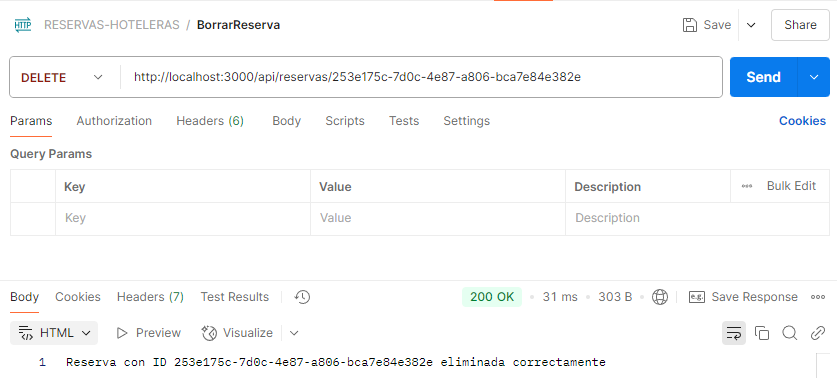
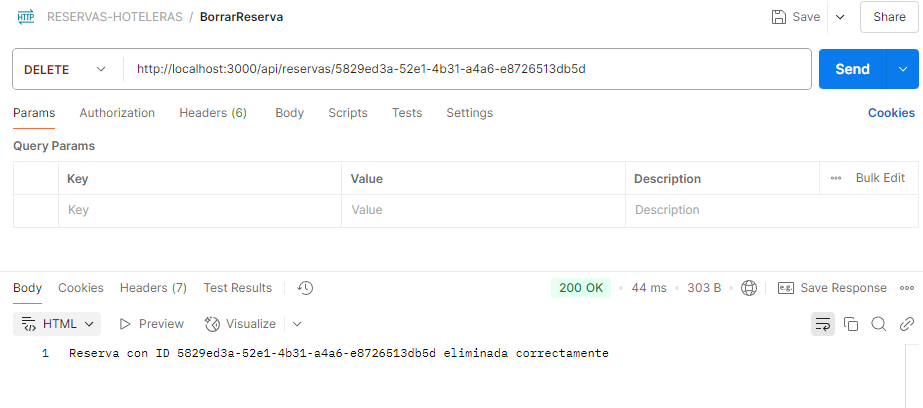
Se crea un metodo para filtrar por estado pendiente de reservas, se agrega un campo al arreglo, modifica documentacion y se actualizan los archivos del controlador

diff --git a/src/controladores/reservas.controlador.js b/src/controladores/reservas.controlador.js
@@ -16,7 +16,7 @@ const guardarReservas = (reservas) => {
   fs.writeFileSync(rutaDatos, JSON.stringify(reservas, null, 2), "utf-8");
 };
 
-// Crear múltiples reservas
+// Crear reservas
 const crearReservas = (req, res) => {
   const nuevasReservas = req.body; // Se espera un arreglo de reservas
 
@@ -30,7 +30,7 @@ const crearReservas = (req, res) => {
   // Validar cada reserva
   const reservasValidas = [];
   for (const reserva of nuevasReservas) {
-    const { hotel, fecha, tipoHabitacion, adultos, niños } = reserva;
+    const { hotel, fecha, tipoHabitacion, adultos, niños, estado_pago } = reserva;
 
     if (!hotel || !fecha || !tipoHabitacion || !adultos) {
       return res
@@ -38,7 +38,7 @@ const crearReservas = (req, res) => {
         .send("Faltan datos obligatorios en una o más reservas");
     }
 
-    // Crear la reserva con un ID único
+    // Crear la reserva con un ID único y estado de pago predeterminado
     reservasValidas.push({
       id: uuidv4(),
       hotel,
@@ -46,6 +46,7 @@ const crearReservas = (req, res) => {
       tipoHabitacion,
       adultos,
       niños: niños || 0, // Valor predeterminado si no se envía
+      estado_pago: estado_pago || "pendiente", // Valor predeterminado si no se envía
     });
   }
 
@@ -80,36 +81,37 @@ const obtenerReservaPorId = (req, res) => {
 
 // Actualizar una reserva específica por ID
 const actualizarReservaPorId = (req, res) => {
-    const reservas = obtenerReservas(); // Cargar todas las reservas desde el archivo
-    const { id } = req.params; // Obtener el ID de los parámetros de la URL
-    const { hotel, fecha, tipoHabitacion, adultos, niños } = req.body; // Datos enviados en el cuerpo de la solicitud
-  
-    // Buscar la reserva por ID
-    const indiceReserva = reservas.findIndex(reserva => reserva.id === id);
-  
-    if (indiceReserva === -1) {
-      return res.status(404).send('Reserva no encontrada'); // Si no se encuentra, devolver un error 404
-    }
-  
-    // Actualizar los datos de la reserva
-    reservas[indiceReserva] = {
-      ...reservas[indiceReserva], // Mantener los datos existentes
-      hotel: hotel || reservas[indiceReserva].hotel, // Actualizar solo si se envía un nuevo valor
-      fecha: fecha || reservas[indiceReserva].fecha,
-      tipoHabitacion: tipoHabitacion || reservas[indiceReserva].tipoHabitacion,
-      adultos: adultos || reservas[indiceReserva].adultos,
-      niños: niños || reservas[indiceReserva].niños,
-    };
-  
-    // Guardar las reservas actualizadas en el archivo
-    guardarReservas(reservas);
-  
-    res.status(200).json(reservas[indiceReserva]); // Enviar la reserva actualizada como respuesta
+  const reservas = obtenerReservas(); // Cargar todas las reservas desde el archivo
+  const { id } = req.params; // Obtener el ID de los parámetros de la URL
+  const { hotel, fecha, tipoHabitacion, adultos, niños, estado_pago } = req.body; // Datos enviados en el cuerpo de la solicitud
+
+  // Buscar la reserva por ID
+  const indiceReserva = reservas.findIndex((reserva) => reserva.id === id);
+
+  if (indiceReserva === -1) {
+    return res.status(404).send("Reserva no encontrada"); // Si no se encuentra, devolver un error 404
+  }
+
+  // Actualizar los datos de la reserva
+  reservas[indiceReserva] = {
+    ...reservas[indiceReserva], // Mantener los datos existentes
+    hotel: hotel || reservas[indiceReserva].hotel, // Actualizar solo si se envía un nuevo valor
+    fecha: fecha || reservas[indiceReserva].fecha,
+    tipoHabitacion: tipoHabitacion || reservas[indiceReserva].tipoHabitacion,
+    adultos: adultos || reservas[indiceReserva].adultos,
+    niños: niños || reservas[indiceReserva].niños,
+    estado_pago: estado_pago || reservas[indiceReserva].estado_pago, // Actualizar estado_pago si se envía
   };
 
-  module.exports = {
-    crearReservas,
-    obtenerTodasLasReservas,
-    obtenerReservaPorId,
-    actualizarReservaPorId, // Exportar la nueva función
-  };
+  // Guardar las reservas actualizadas en el archivo
+  guardarReservas(reservas);
+
+  res.status(200).json(reservas[indiceReserva]); // Enviar la reserva actualizada como respuesta
+};
+
+module.exports = {
+  crearReservas,
+  obtenerTodasLasReservas,
+  obtenerReservaPorId,
+  actualizarReservaPorId,
+};

diff --git a/src/rutas/reservas.rutas.js b/src/rutas/reservas.rutas.js
@@ -10,7 +10,7 @@ const router = express.Router();
 router.post("/", crearReservas);
 
 router.get("/", (req, res) => {
-  const { tipo_habitacion, fecha_inicio, fecha_fin, hotel, grupos_grandes } = req.query;
+  const { tipo_habitacion, fecha_inicio, fecha_fin, hotel, grupos_grandes, estado_pago } = req.query;
   const reservas = require("../datos/reservas.json");
 
   // Filtro por tipo de habitación
@@ -65,6 +65,19 @@ router.get("/", (req, res) => {
     }
 
     return res.status(200).json(reservasGruposGrandes);
+  }
+
+  // Filtro por estado de pago
+  if (estado_pago) {
+    const reservasFiltradasPorEstado = reservas.filter(
+      (reserva) => reserva.estado_pago.toLowerCase() === estado_pago.toLowerCase()
+    );
+
+    if (reservasFiltradasPorEstado.length === 0) {
+      return res.status(404).send("No hay reservas con el estado de pago solicitado");
+    }
+
+    return res.status(200).json(reservasFiltradasPorEstado);
   }
 
   // Si no hay filtros, devuelve todas las reservas

diff --git a/readme.md b/readme.md
@@ -58,35 +58,40 @@ b) Una vez creada la coleccion, crear un metodo POST. Este nombrarlo como Todasl
     "fecha": "2025-04-12",
     "tipoHabitacion": "doble",
     "adultos": 3,
-    "niños": 2
+    "niños": 2,
+    "estado_pago":"pagado"
   },
   {
     "hotel": "Hotel Cabañas el bosque",
     "fecha": "2025-04-10",
     "tipoHabitacion": "suite",
     "adultos": 1,
-    "niños": 0
+    "niños": 0,
+    "estado_pago":"pagado"
   },
   {
     "hotel": "Hotel Melillanca",
     "fecha": "2025-04-14",
     "tipoHabitacion": "individual",
     "adultos": 1,
-    "niños": 0
+    "niños": 0,
+    "estado_pago":"pendiente"
   },
   {
     "hotel": "Hotel Paraíso",
     "fecha": "2025-04-05",
     "tipoHabitacion": "doble",
     "adultos": 3,
-    "niños": 3
+    "niños": 3,
+    "estado_pago":"pagado"
   },
   {
     "hotel": "Hotel Dreams valdivia",
     "fecha": "2025-04-15",
     "tipoHabitacion": "suite",
     "adultos": 2,
-    "niños": 1
+    "niños": 1,
+    "estado_pago":"pendiente"
   }
 ]
 
@@ -94,7 +99,7 @@ C)Posteriormente realizar clic en Send, para insertar el arreglo en el archivo /
 Para verificar si los datos se cargaron, simplemente ingresar a la carpeta y verificarlo.
 A continuacion se presenta un screenshot de Postman del metodo en cuestion:
 ![](/assets/TODASLASRESERVAS.png "Todas las reservas")
-nota: Simpre guardar(esquina superior derecha)
+
 
 ***2. METODO GET, LISTAR RESERVAS***
 Para realizar este metodo, simplemente crear el metodo post en postman tal como se realizo anteriormentey con la url http://localhost:3000/api/reservas en el metodo.
@@ -104,22 +109,22 @@ Al realizar clic en send, si no hay error, ir a la url para listar las reservas.
 
 Para obtener una reserva por id, se probara con el siguiente id:
 
-f43791da-7836-43d1-b872-68d8ab799494
+5fdfe146-635e-443f-8a1f-f4c5ab80684f
 
 Para ello crear en postman con el metodo GET, insertar la siguiente url y realizar clic en send:
 
-http://localhost:3000/api/reservas/f43791da-7836-43d1-b872-68d8ab799494
+http://localhost:3000/api/reservas/5fdfe146-635e-443f-8a1f-f4c5ab80684f
 
 Ver la siguiente imagen:
 ![](/assets/busquedaporID.png "Busqueda por ID")
 ***4. METODO PUT : ACTUALIZAR RESERVA POR ID*** 
 En el enunciado del ejercicio dice que es necesario cambiar una reserva.Originalmente se reservo una habitación doble, pero ahora se requiere una suite familiar. Se trabajara con cualquier codigo de reserva, por ejemplo el siguiente y se modificara el tipo de habitacion:
 
-b267fe66-cdec-484d-a716-299b85897766
+339117e6-fb86-42cf-9710-910476d68f95
 
 Agregar una nueva request en POSTMAN, con metodo PUT. Este se llamara actualizar reserva.
 El link en postman sera el siguiente:
-http://localhost:3000/api/reservas/b267fe66-cdec-484d-a716-299b85897766
+http://localhost:3000/api/reservas/339117e6-fb86-42cf-9710-910476d68f95
 Posteriormente en la pestaña body, subpestaña RAW, en JSON, insertar la modificacion solicitada:
 
 {
@@ -133,9 +138,9 @@ Realizar clic en send, y posteriormente para verificar , en el codigo json de la
 ***5. METODO DELETE: ELIMINAR RESERVA***
 Para borrar la reserva crear una nueva request, y configurar la solicitud DELETE.
 Ingresar el siguiente URL:
-http://localhost:3000/api/reservas/253e175c-7d0c-4e87-a806-bca7e84e382e
+http://localhost:3000/api/reservas/5829ed3a-52e1-4b31-a4a6-e8726513db5d
 Realizar clic en send. Para verificar que funciono deberia arrojar el mensaje :
-Reserva con ID 253e175c-7d0c-4e87-a806-bca7e84e382e eliminada correctamente
+Reserva con ID 5829ed3a-52e1-4b31-a4a6-e8726513db5d eliminada correctamente
 Ver la siguiente imagen:
 ![](/assets/BorrarReserva.png "Eliminar reserva") 
 ***6. METODO GET : FILTRAR RESERVAS POR TIPO DE HABITACION***
@@ -162,6 +167,16 @@ Crear una nueva request y configurar el metodo get.Para ello, ingresar el siguie
 http://localhost:3000/api/reservas?grupos_grandes=true
 Realizar clic en send.Si hay reservas con 5 o más de 5 invitados, se recibira un arreglo con las reservas correspondientes y el detalle, caso contrario , arrojara el mensaje:
 "No hay reservas para invitados con grupos sobre 5 personas".
+
+***10. METODO GET: RESERVAS PENDIENTES DE PAGO***
+Crear un nuevo request en postman con el metodo get. Asignarle el nombre por ejemplo "PendientesPago".Ingresar el siguiente link para filtrar las reservas con estado de pago "pendiente":
+http://localhost:3000/api/reservas?estado_pago=pendiente
+Realizar clic en send. Ver la siguiente imagen con el resultado:
+![](/assets/PendientePago.png "Pendiente de pago")
+
+
+
+
 
 ***Nota importante: En todos los request, una vez se cree el metodo, siempre guardar***
 
